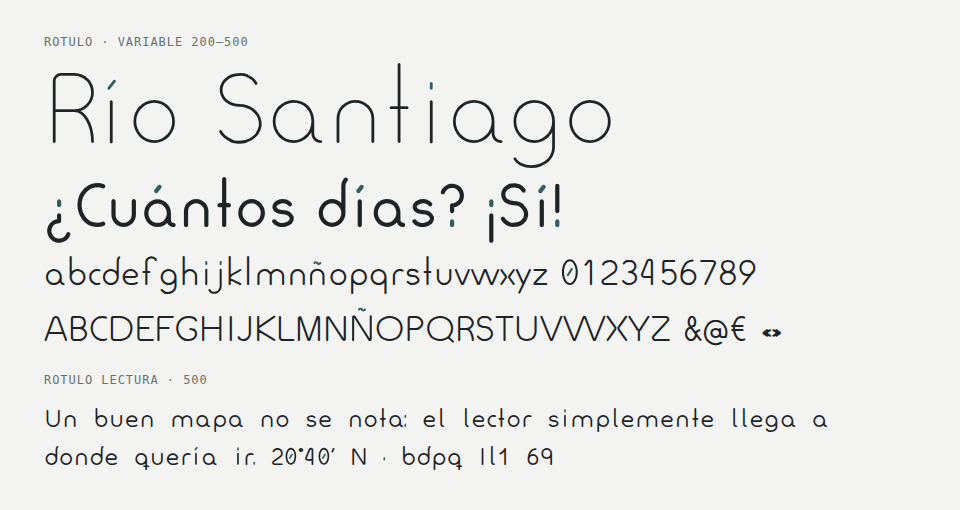
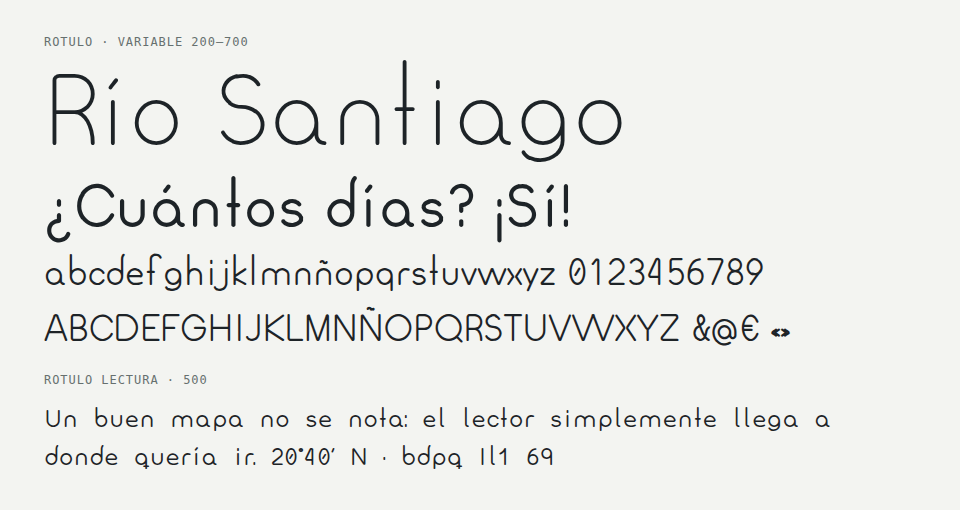
feat: proporciones revisadas, G con barra y detalle de un solo color

diff --git a/web/rotulo.css b/web/rotulo.css
@@ -13,14 +13,3 @@
     font-style: normal;
     font-display: swap;
 }
-
-@font-palette-values --rotulo-dark {
-    font-family: 'Rotulo', 'Rotulo Lectura';
-    base-palette: 1;
-}
-
-@media (prefers-color-scheme: dark) {
-    :root {
-        font-palette: --rotulo-dark;
-    }
-}

diff --git a/src/rotulo/uppercase.py b/src/rotulo/uppercase.py
@@ -84,38 +84,55 @@ def add_uppercase(ctx: Context) -> None:
         [pen().m(ew, cap).l(0, cap).l(0, 0), pen().m(0, cap / 2).l(ew * 0.7, cap / 2)],
     )
     gw = cap * 0.92
-    lo, hi = 10.0, (cap / 2 + o) * 0.49
-    for _ in range(40):
-        r = (lo + hi) / 2
-        if ctx.bar_fillet(gw / 2, cap / 2, gw / 2, cap / 2 + o, cap / 2, r, -1).c[0] > gw * 0.6:
-            lo = r
-        else:
-            hi = r
-    gr = (lo + hi) / 2
-    gf = ctx.bar_fillet(gw / 2, cap / 2, gw / 2, cap / 2 + o, cap / 2, gr, -1)
-    gx = gf.c[0] + gr
-    top = cap + o
-    d(
-        "G",
-        gx,
-        "o",
-        "o",
-        [
-            pen()
-            .m(gx, top - cap * p.lift_g)
-            .c(
-                gx - (gx - gw / 2) * 0.2,
-                top - cap * p.lift_g * 0.35,
-                gw / 2 + (gx - gw / 2) * 0.55,
-                top,
-                gw / 2,
-                top,
-            )
-            .a(gw / 2, cap / 2, gw / 2, cap / 2 + o, 90, 360 + gf.th)
-            .a(gf.c[0], gf.c[1], gr, gr, gf.phi, 90)
-        ],
-        ax=gw / 2,
-    )
+    if p.g_form == "bar":
+        gb = min(max(p.corner * 0.6, 1.0), cap * 0.2)
+        gbf = ctx.bar_fillet(gw / 2, cap / 2, gw / 2, cap / 2 + o, cap / 2, gb, -1)
+        d(
+            "G",
+            gw,
+            "o",
+            "o",
+            [
+                pen()
+                .a(gw / 2, cap / 2, gw / 2, cap / 2 + o, ap, 360 + gbf.th)
+                .a(gbf.c[0], gbf.c[1], gb, gb, gbf.phi, 90)
+                .l(gw * 0.55, cap / 2)
+            ],
+            ax=gw / 2,
+        )
+    else:
+        lo, hi = 10.0, (cap / 2 + o) * 0.49
+        for _ in range(40):
+            r = (lo + hi) / 2
+            if ctx.bar_fillet(gw / 2, cap / 2, gw / 2, cap / 2 + o, cap / 2, r, -1).c[0] > gw * 0.6:
+                lo = r
+            else:
+                hi = r
+        gr = (lo + hi) / 2
+        gf = ctx.bar_fillet(gw / 2, cap / 2, gw / 2, cap / 2 + o, cap / 2, gr, -1)
+        gx = gf.c[0] + gr
+        top = cap + o
+        d(
+            "G",
+            gx,
+            "o",
+            "o",
+            [
+                pen()
+                .m(gx, top - cap * p.lift_g)
+                .c(
+                    gx - (gx - gw / 2) * 0.2,
+                    top - cap * p.lift_g * 0.35,
+                    gw / 2 + (gx - gw / 2) * 0.55,
+                    top,
+                    gw / 2,
+                    top,
+                )
+                .a(gw / 2, cap / 2, gw / 2, cap / 2 + o, 90, 360 + gf.th)
+                .a(gf.c[0], gf.c[1], gr, gr, gf.phi, 90)
+            ],
+            ax=gw / 2,
+        )
     hw = cap * 0.72
     d(
         "H",

diff --git a/tests/test_build.py b/tests/test_build.py
@@ -1,3 +1,4 @@
+from dataclasses import replace
 from pathlib import Path
 
 from fontTools.ttLib import TTFont
@@ -41,15 +42,20 @@ def test_reading_font_has_kerning_and_alternates(tmp_path: Path) -> None:
     assert font["hmtx"]["i"][0] > 0
 
 
-def test_display_font_has_color_details_alternates_and_hinting(tmp_path: Path) -> None:
+def test_display_font_is_one_color_with_alternates_and_hinting(tmp_path: Path) -> None:
     font = TTFont(build_font(DISPLAY, "Display", 200, tmp_path))
-    layers = font["COLR"].ColorLayers
-    assert [layer.colorID for layer in layers["i"]] == [0xFFFF, 0]
-    assert len(font["CPAL"].palettes) == 2
+    assert "COLR" not in font
     tags = [r.FeatureTag for r in font["GSUB"].table.FeatureList.FeatureRecord]
     assert "ss01" in tags
     assert {"l.ss01", "q.ss01", "one.ss01", "nine.ss01"} <= set(font.getGlyphOrder())
     assert "fpgm" in font
+
+
+def test_color_details_are_an_option(tmp_path: Path) -> None:
+    font = TTFont(build_font(replace(DISPLAY, color_details=True), "Color", 200, tmp_path))
+    layers = font["COLR"].ColorLayers
+    assert [layer.colorID for layer in layers["i"]] == [0xFFFF, 0]
+    assert len(font["CPAL"].palettes) == 2
 
 
 def test_variable_font_interpolates_every_glyph(tmp_path: Path) -> None:

diff --git a/src/rotulo/variable.py b/src/rotulo/variable.py
@@ -13,7 +13,7 @@ from rotulo.capsule import Contour, capsules
 from rotulo.glyphset import GlyphSet, collect
 from rotulo.params import DISPLAY, Params
 
-AXIS_MIN, AXIS_MAX = 200, 700
+AXIS_MIN, AXIS_MID, AXIS_MAX = 200, 500, 700
 MAX_ERROR = 1.0
 
 
@@ -49,7 +49,9 @@ def _compatible(sets: list[GlyphSet]) -> None:
             gs.glyphs[name] = glyph
 
 
-def build_variable(out: Path, light: Params = DISPLAY, heavy_weight: float = 106) -> Path:
+def build_variable(
+    out: Path, light: Params = DISPLAY, middle_weight: float = 75, heavy_weight: float = 106
+) -> Path:
     masters = [light, replace(light, weight=heavy_weight)]
     sets = [collect(p, draw=capsules) for p in masters]
     _compatible(sets)
@@ -61,7 +63,7 @@ def build_variable(out: Path, light: Params = DISPLAY, heavy_weight: float = 106
             minimum=AXIS_MIN,
             default=AXIS_MIN,
             maximum=AXIS_MAX,
-            map=[(AXIS_MIN, light.weight), (AXIS_MAX, heavy_weight)],
+            map=[(AXIS_MIN, light.weight), (AXIS_MID, middle_weight), (AXIS_MAX, heavy_weight)],
         )
     )
     for params, gs, style in zip(masters, sets, ("Display", "Heavy"), strict=True):

diff --git a/src/rotulo/params.py b/src/rotulo/params.py
@@ -5,21 +5,22 @@ Dot = Literal["round", "line", "slant"]
 AForm = Literal["tail", "single", "double"]
 LForm = Literal["straight", "tail"]
 ZeroForm = Literal["slash", "dot", "plain"]
+GForm = Literal["bar", "curl"]
 
 
 @dataclass(frozen=True)
 class Params:
-    weight: float = 29
-    x_height: float = 420
+    weight: float = 40
+    x_height: float = 425
     cap_height: float = 700
-    ascender: float = 800
-    descender: float = -260
+    ascender: float = 840
+    descender: float = -180
     width: float = 1.0
-    aperture: float = 70
+    aperture: float = 30
     gap: float = 110
-    spacing: float = 1.56
+    spacing: float = 1.5
     word_spacing: float = 1.0
-    corner: float = 70
+    corner: float = 50
     overshoot: float = 0
     bar: float = 0.5
     tail: float = 1.15
@@ -32,6 +33,8 @@ class Params:
     a_form: AForm = "tail"
     l_form: LForm = "straight"
     zero: ZeroForm = "slash"
+    g_form: GForm = "bar"
+    color_details: bool = False
     q_bar: bool = False
     one_flag: bool = False
     nine_straight: bool = False

diff --git a/src/rotulo/glyphset.py b/src/rotulo/glyphset.py
@@ -74,7 +74,9 @@ class GlyphSet:
         self.advances[name] = round(advance)
 
 
-def collect(params: Params, draw: Draw = tt_glyph, color: bool = True) -> GlyphSet:
+def collect(params: Params, draw: Draw = tt_glyph, color: bool | None = None) -> GlyphSet:
+    if color is None:
+        color = params.color_details
     ctx = build_context(params)
     gs = GlyphSet(ctx)
     gs.add(".notdef", notdef(), 500)

diff --git a/src/rotulo/build.py b/src/rotulo/build.py
@@ -10,7 +10,7 @@ from rotulo.params import Params
 from rotulo.spacing import kerning
 
 FAMILY = "Rotulo"
-VERSION = "0.1.1"
+VERSION = "0.2.0"
 LICENSE = "This Font Software is licensed under the SIL Open Font License, Version 1.1."
 LICENSE_URL = "https://openfontlicense.org"
 DETAIL_LIGHT = (0x3D / 255, 0x8A / 255, 0x8F / 255, 1.0)

diff --git a/README.md b/README.md
@@ -8,8 +8,7 @@ Monoline typeface generated from skeletons: strokes of lines and arcs expanded w
 
 Every letter is a skeleton of straight lines and arcs drawn in code, never a hand-drawn outline. The
 generator expands each skeleton with a round pen and writes TrueType and WOFF2 fonts. Weight is the
-pen width, so the family is a variable font from 200 to 700. Floating details (dots, accents, the zero
-slash, punctuation) are a second color layer. A reading cut, **Lectura**, adds weight, spacing and
+pen width, so the family is a variable font from 200 to 700. A reading cut, **Lectura**, adds weight, spacing and
 letters that are hard to mirror.
 
 ## Install
@@ -55,16 +54,9 @@ python -m rotulo --out build --web build/web
 
 ## Color details
 
-Dots, accents, the zero slash and punctuation sit on a color layer (COLR/CPAL). The body takes the text
-color; the detail takes the palette color. Renderers without color fonts draw the whole letter in the
-text color.
-
-| Palette | Detail color | CSS |
-|---|---|---|
-| 0, any background | `#3d8a8f` | default; readable on light and dark |
-| 1, dark backgrounds | `#7fb7b5` | `font-palette: --rotulo-dark`; the stylesheet applies it under `prefers-color-scheme: dark` |
-
-Override the detail color with `@font-palette-values` and `override-colors: 0 <color>`.
+The fonts are one color. Built with `color_details=True`, dots, accents, the zero slash and punctuation
+move to a color layer (COLR/CPAL): the body takes the text color and the detail a palette color,
+`#3d8a8f` by default and `#7fb7b5` on dark backgrounds (`base-palette: 1`).
 
 ## Reading forms
 
@@ -90,12 +82,12 @@ flag on `1` and a straight `9`.
 
 | Field | Default | What it controls |
 |---|---|---|
-| `weight` | 29 | Pen width |
-| `x_height`, `cap_height` | 420, 700 | Body and capital heights |
-| `ascender`, `descender` | 800, −260 | Shared by every letter with a tail |
-| `corner` | 70 | Radius used to round every skeleton vertex |
+| `weight` | 40 | Pen width |
+| `x_height`, `cap_height` | 425, 700 | Body and capital heights |
+| `ascender`, `descender` | 840, −180 | Shared by every letter with a tail |
+| `corner` | 50 | Radius used to round every skeleton vertex |
 | `gap` | 110 | Space between a stroke and a floating detail |
-| `spacing`, `word_spacing` | 1.56, 1.0 | Side bearings and space width |
+| `spacing`, `word_spacing` | 1.5, 1.0 | Side bearings and space width |
 | `narrow_air` | 0.3 | Extra room around narrow letters such as `i`, `l`, `t` |
 
 ```python
@@ -104,7 +96,7 @@ from pathlib import Path
 
 from rotulo import DISPLAY, build_font
 
-print(build_font(replace(DISPLAY, weight=50), "Medium", 400, Path("build")))
+print(build_font(replace(DISPLAY, weight=60), "Medium", 400, Path("build")))
 ```
 
 ## Known limitations
@@ -112,8 +104,6 @@ print(build_font(replace(DISPLAY, weight=50), "Medium", 400, Path("build")))
 - Latin script: Spanish, Portuguese, French and Catalan, figures and common symbols.
 - The variable font keeps overlapping strokes and is not hinted; use the static files at small sizes
   on Windows.
-- Detail colors need COLR support. Safari, Chrome, Firefox and Windows render them; older renderers draw
-  one color.
 
 ## Development
 
@@ -125,7 +115,7 @@ ruff check src tests && ruff format --check src tests
 mypy
 ```
 
-The tests build every font and check heights against the skeleton, kerning, color layers, `ss01`,
+The tests build every font and check heights against the skeleton, kerning, the optional color layers, `ss01`,
 hinting and that the variable font interpolates every glyph.
 
 ## Contributing

diff --git a/docs/CHANGELOG.md b/docs/CHANGELOG.md
@@ -5,9 +5,20 @@ Formato basado en [Keep a Changelog](https://keepachangelog.com/es-ES/1.1.0/) y 
 
 ## [No publicado]
 
+## [0.2.0] - 2026-10-16
+
 ### Cambiado
 
+- Proporciones y formas revisadas para que se lea menos infantil: altura x 425, ascendentes 840,
+  descendentes −180, esquinas con radio 50, aperturas a 30° y espaciado 1.5.
+- El peso de Display pasa de 29 a 40; el eje variable va de 40 (200) a 106 (700) y conserva 75 en 500.
+- La `G` vuelve a llevar barra; la enroscada queda como `g_form="curl"`.
+- Las fuentes son de un solo color; el detalle a color queda como `color_details=True`.
 - El paquete npm se llama `rotulo`, sin scope; `@npmegar/rotulo` queda deprecado.
+
+### Eliminado
+
+- La paleta oscura automática de la hoja de estilos: sin capas de color ya no aplica.
 
 ## [0.1.1] - 2026-10-15
 
